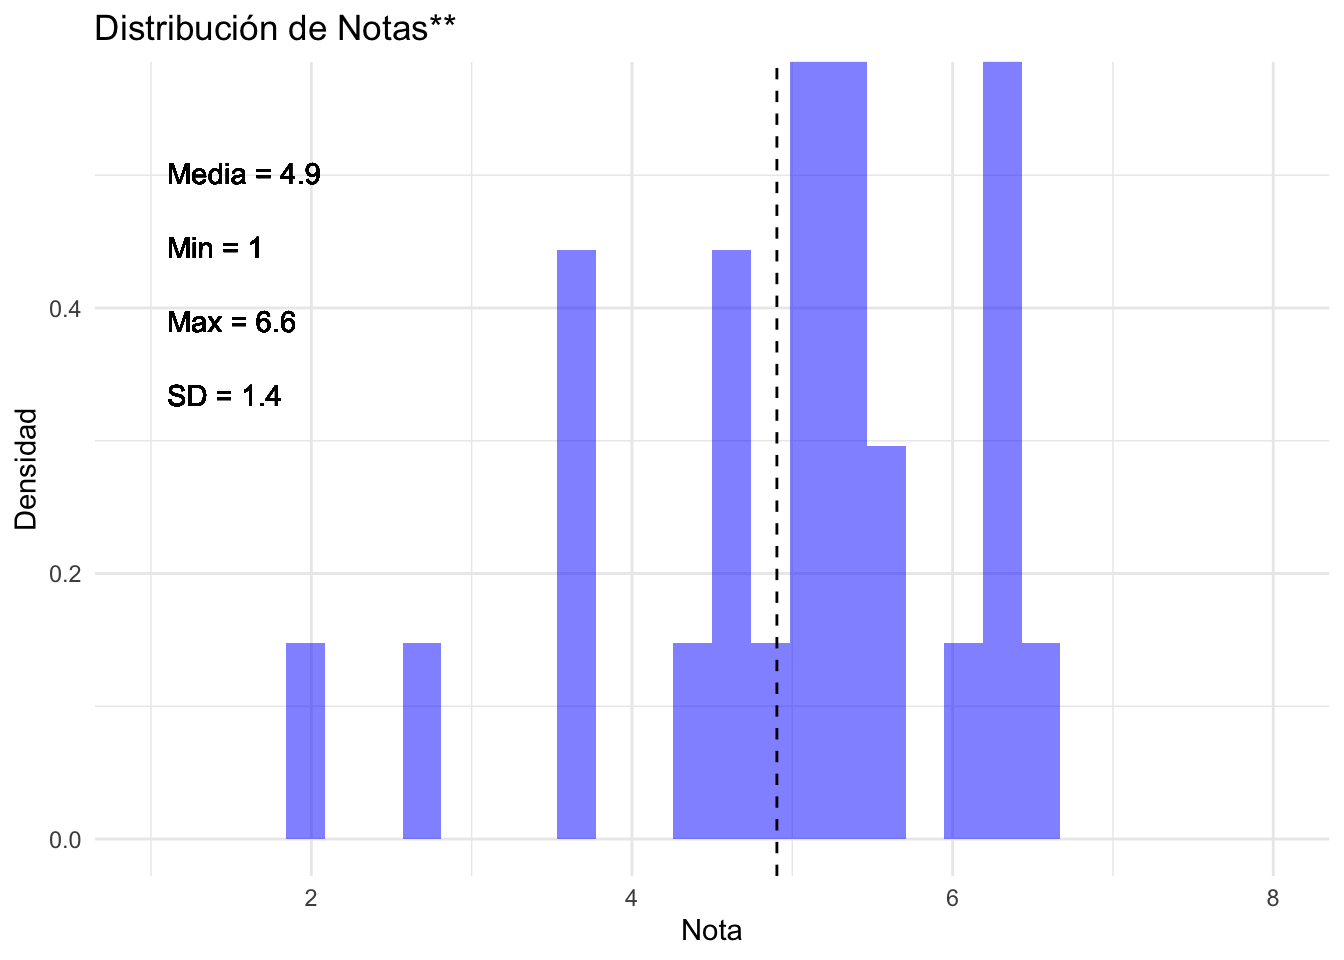
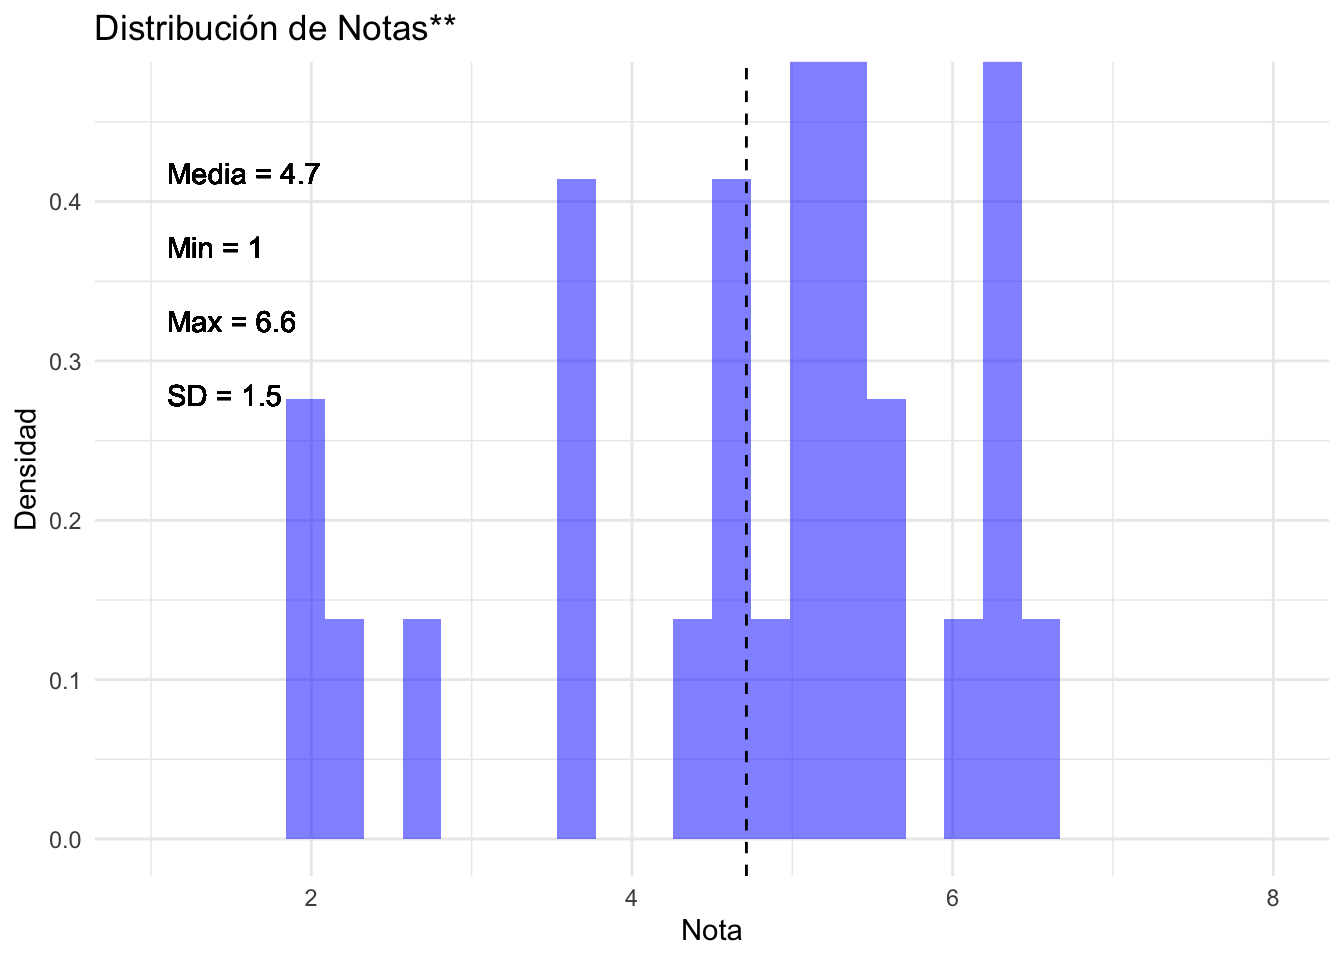
Update

diff --git a/exams/notas_final.html b/exams/notas_final.html
@@ -152,7 +152,7 @@ Para evitar casos en que diferencias muy pequeñas produzcan resultados despropo
 <td style="text-align: right;">4.2</td>
 <td style="text-align: right;">5.4</td>
 <td style="text-align: right;">5.4</td>
-<td style="text-align: right;">0.59</td>
+<td style="text-align: right;">0.62</td>
 </tr>
 <tr class="even">
 <td style="text-align: left;">21701909-5</td>
@@ -160,7 +160,7 @@ Para evitar casos en que diferencias muy pequeñas produzcan resultados despropo
 <td style="text-align: right;">5.3</td>
 <td style="text-align: right;">4.8</td>
 <td style="text-align: right;">5.7</td>
-<td style="text-align: right;">0.74</td>
+<td style="text-align: right;">0.76</td>
 </tr>
 <tr class="odd">
 <td style="text-align: left;">21575827-3</td>
@@ -168,7 +168,7 @@ Para evitar casos en que diferencias muy pequeñas produzcan resultados despropo
 <td style="text-align: right;">5.2</td>
 <td style="text-align: right;">3.3</td>
 <td style="text-align: right;">5.0</td>
-<td style="text-align: right;">0.41</td>
+<td style="text-align: right;">0.45</td>
 </tr>
 <tr class="even">
 <td style="text-align: left;">21551561-3</td>
@@ -176,7 +176,7 @@ Para evitar casos en que diferencias muy pequeñas produzcan resultados despropo
 <td style="text-align: right;">7.0</td>
 <td style="text-align: right;">5.0</td>
 <td style="text-align: right;">6.3</td>
-<td style="text-align: right;">0.85</td>
+<td style="text-align: right;">0.86</td>
 </tr>
 <tr class="odd">
 <td style="text-align: left;">19246028-K</td>
@@ -184,7 +184,7 @@ Para evitar casos en que diferencias muy pequeñas produzcan resultados despropo
 <td style="text-align: right;">3.8</td>
 <td style="text-align: right;">3.4</td>
 <td style="text-align: right;">3.7</td>
-<td style="text-align: right;">0.15</td>
+<td style="text-align: right;">0.21</td>
 </tr>
 <tr class="even">
 <td style="text-align: left;">21725304-7</td>
@@ -192,7 +192,7 @@ Para evitar casos en que diferencias muy pequeñas produzcan resultados despropo
 <td style="text-align: right;">4.3</td>
 <td style="text-align: right;">5.6</td>
 <td style="text-align: right;">5.4</td>
-<td style="text-align: right;">0.67</td>
+<td style="text-align: right;">0.69</td>
 </tr>
 <tr class="odd">
 <td style="text-align: left;">21543296-3</td>
@@ -200,7 +200,7 @@ Para evitar casos en que diferencias muy pequeñas produzcan resultados despropo
 <td style="text-align: right;">4.1</td>
 <td style="text-align: right;">5.9</td>
 <td style="text-align: right;">5.2</td>
-<td style="text-align: right;">0.52</td>
+<td style="text-align: right;">0.55</td>
 </tr>
 <tr class="even">
 <td style="text-align: left;">21803109-9</td>
@@ -208,7 +208,7 @@ Para evitar casos en que diferencias muy pequeñas produzcan resultados despropo
 <td style="text-align: right;">6.1</td>
 <td style="text-align: right;">6.3</td>
 <td style="text-align: right;">6.4</td>
-<td style="text-align: right;">0.96</td>
+<td style="text-align: right;">0.97</td>
 </tr>
 <tr class="odd">
 <td style="text-align: left;">20591970-8</td>
@@ -216,55 +216,71 @@ Para evitar casos en que diferencias muy pequeñas produzcan resultados despropo
 <td style="text-align: right;">2.4</td>
 <td style="text-align: right;">1.7</td>
 <td style="text-align: right;">2.7</td>
-<td style="text-align: right;">0.07</td>
+<td style="text-align: right;">0.14</td>
 </tr>
 <tr class="even">
+<td style="text-align: left;">23947685-6</td>
+<td style="text-align: right;">3.9</td>
+<td style="text-align: right;">1.0</td>
+<td style="text-align: right;">1.0</td>
+<td style="text-align: right;">1.9</td>
+<td style="text-align: right;">0.03</td>
+</tr>
+<tr class="odd">
 <td style="text-align: left;">20965392-3</td>
 <td style="text-align: right;">6.9</td>
 <td style="text-align: right;">3.0</td>
 <td style="text-align: right;">4.4</td>
 <td style="text-align: right;">4.6</td>
-<td style="text-align: right;">0.26</td>
+<td style="text-align: right;">0.31</td>
 </tr>
-<tr class="odd">
+<tr class="even">
 <td style="text-align: left;">21750628-K</td>
 <td style="text-align: right;">5.0</td>
 <td style="text-align: right;">3.1</td>
 <td style="text-align: right;">3.2</td>
 <td style="text-align: right;">3.7</td>
-<td style="text-align: right;">0.19</td>
+<td style="text-align: right;">0.24</td>
 </tr>
-<tr class="even">
+<tr class="odd">
 <td style="text-align: left;">21530251-2</td>
 <td style="text-align: right;">5.8</td>
 <td style="text-align: right;">3.2</td>
 <td style="text-align: right;">4.3</td>
 <td style="text-align: right;">4.3</td>
-<td style="text-align: right;">0.22</td>
+<td style="text-align: right;">0.28</td>
 </tr>
-<tr class="odd">
+<tr class="even">
 <td style="text-align: left;">21816972-4</td>
 <td style="text-align: right;">5.5</td>
 <td style="text-align: right;">6.0</td>
 <td style="text-align: right;">6.6</td>
 <td style="text-align: right;">6.0</td>
-<td style="text-align: right;">0.78</td>
+<td style="text-align: right;">0.79</td>
 </tr>
-<tr class="even">
+<tr class="odd">
 <td style="text-align: left;">21445742-3</td>
 <td style="text-align: right;">6.7</td>
 <td style="text-align: right;">6.3</td>
 <td style="text-align: right;">5.6</td>
 <td style="text-align: right;">6.2</td>
-<td style="text-align: right;">0.81</td>
+<td style="text-align: right;">0.83</td>
 </tr>
-<tr class="odd">
+<tr class="even">
 <td style="text-align: left;">21331548-K</td>
 <td style="text-align: right;">5.5</td>
 <td style="text-align: right;">5.0</td>
 <td style="text-align: right;">4.6</td>
 <td style="text-align: right;">5.0</td>
-<td style="text-align: right;">0.44</td>
+<td style="text-align: right;">0.48</td>
+</tr>
+<tr class="odd">
+<td style="text-align: left;">21010583-2</td>
+<td style="text-align: right;">2.8</td>
+<td style="text-align: right;">2.8</td>
+<td style="text-align: right;">1.0</td>
+<td style="text-align: right;">2.2</td>
+<td style="text-align: right;">0.10</td>
 </tr>
 <tr class="even">
 <td style="text-align: left;">20833519-7</td>
@@ -288,7 +304,7 @@ Para evitar casos en que diferencias muy pequeñas produzcan resultados despropo
 <td style="text-align: right;">3.4</td>
 <td style="text-align: right;">4.0</td>
 <td style="text-align: right;">4.7</td>
-<td style="text-align: right;">0.30</td>
+<td style="text-align: right;">0.34</td>
 </tr>
 <tr class="odd">
 <td style="text-align: left;">21417889-3</td>
@@ -296,7 +312,7 @@ Para evitar casos en que diferencias muy pequeñas produzcan resultados despropo
 <td style="text-align: right;">3.6</td>
 <td style="text-align: right;">4.7</td>
 <td style="text-align: right;">4.8</td>
-<td style="text-align: right;">0.37</td>
+<td style="text-align: right;">0.41</td>
 </tr>
 <tr class="even">
 <td style="text-align: left;">21763047-9</td>
@@ -304,7 +320,7 @@ Para evitar casos en que diferencias muy pequeñas produzcan resultados despropo
 <td style="text-align: right;">5.3</td>
 <td style="text-align: right;">4.7</td>
 <td style="text-align: right;">5.2</td>
-<td style="text-align: right;">0.48</td>
+<td style="text-align: right;">0.52</td>
 </tr>
 <tr class="odd">
 <td style="text-align: left;">21180558-7</td>
@@ -312,7 +328,7 @@ Para evitar casos en que diferencias muy pequeñas produzcan resultados despropo
 <td style="text-align: right;">6.8</td>
 <td style="text-align: right;">6.0</td>
 <td style="text-align: right;">6.3</td>
-<td style="text-align: right;">0.89</td>
+<td style="text-align: right;">0.90</td>
 </tr>
 <tr class="even">
 <td style="text-align: left;">21627470-9</td>
@@ -320,7 +336,7 @@ Para evitar casos en que diferencias muy pequeñas produzcan resultados despropo
 <td style="text-align: right;">3.1</td>
 <td style="text-align: right;">4.8</td>
 <td style="text-align: right;">4.7</td>
-<td style="text-align: right;">0.33</td>
+<td style="text-align: right;">0.38</td>
 </tr>
 <tr class="odd">
 <td style="text-align: left;">21388164-7</td>
@@ -328,7 +344,7 @@ Para evitar casos en que diferencias muy pequeñas produzcan resultados despropo
 <td style="text-align: right;">4.1</td>
 <td style="text-align: right;">6.2</td>
 <td style="text-align: right;">5.4</td>
-<td style="text-align: right;">0.63</td>
+<td style="text-align: right;">0.66</td>
 </tr>
 <tr class="even">
 <td style="text-align: left;">21207645-7</td>
@@ -336,7 +352,7 @@ Para evitar casos en que diferencias muy pequeñas produzcan resultados despropo
 <td style="text-align: right;">3.0</td>
 <td style="text-align: right;">3.2</td>
 <td style="text-align: right;">3.6</td>
-<td style="text-align: right;">0.11</td>
+<td style="text-align: right;">0.17</td>
 </tr>
 <tr class="odd">
 <td style="text-align: left;">21043499-2</td>
@@ -344,7 +360,7 @@ Para evitar casos en que diferencias muy pequeñas produzcan resultados despropo
 <td style="text-align: right;">5.4</td>
 <td style="text-align: right;">6.1</td>
 <td style="text-align: right;">5.3</td>
-<td style="text-align: right;">0.56</td>
+<td style="text-align: right;">0.59</td>
 </tr>
 <tr class="even">
 <td style="text-align: left;">21650971-4</td>
@@ -352,7 +368,7 @@ Para evitar casos en que diferencias muy pequeñas produzcan resultados despropo
 <td style="text-align: right;">5.7</td>
 <td style="text-align: right;">4.4</td>
 <td style="text-align: right;">5.6</td>
-<td style="text-align: right;">0.70</td>
+<td style="text-align: right;">0.72</td>
 </tr>
 <tr class="odd">
 <td style="text-align: left;">20828390-1</td>
@@ -360,7 +376,7 @@ Para evitar casos en que diferencias muy pequeñas produzcan resultados despropo
 <td style="text-align: right;">0.8</td>
 <td style="text-align: right;">1.0</td>
 <td style="text-align: right;">2.1</td>
-<td style="text-align: right;">0.04</td>
+<td style="text-align: right;">0.07</td>
 </tr>
 </tbody>
 </table>
